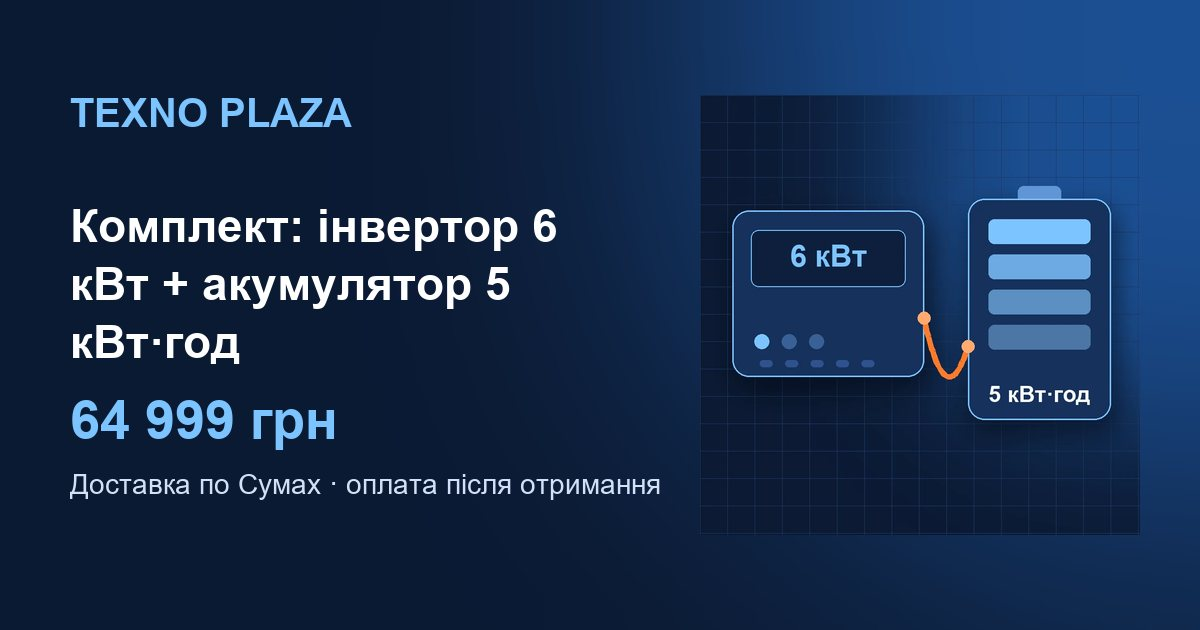
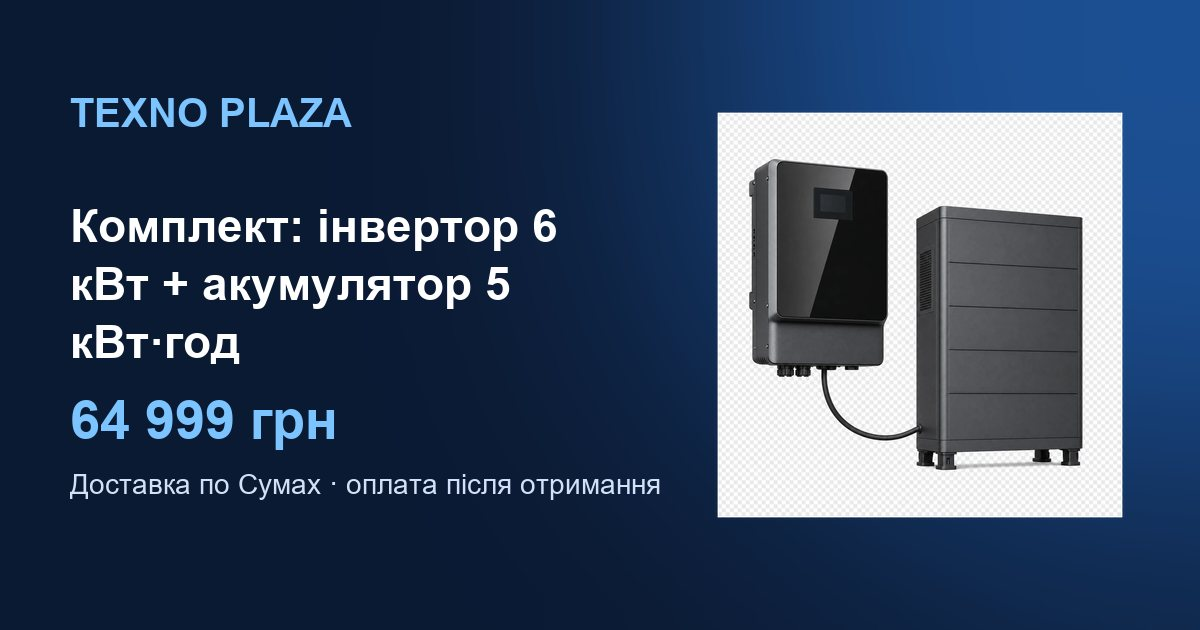
Справжні фотографії комплектів і обкладинка категорії
Власник підтвердив утретє й дав рахунок із кредитами, тож фотографії
згенеровані. Гарантія, яку я лишив у будь-якому разі: у промптах
прямо заборонені логотипи, будь-які написи, цифри на корпусі й
увімкнений дисплей — щоб на знімку не з'явилась марка, якої магазин
не продає.

Обкладинка категорії — у тій самій постановці, що й решта тринадцяти:
темно-синє тло, холодне контрове світло, матовий графіт, відображення
на глянці. Стоїть тепер поруч із ними й не випадає.

Три знімки товарів приїхали вже вирізаними — модель робить прозорий
фон із самого формулювання промпта, параметр background вона мовчки
відкидає. Тому їх лишалось тільки обрізати й відцентрувати тим самим
normalize(), через який проходить кожне фото на сайті: комплект стоїть
у сітці в тому ж масштабі, що й холодильник.

Картки для пересилки перемальовані — вони вбудовують photos[0].

Дорогою, для наступного разу: CLI на цьому плані так само віддає
only_mcp_usage_on_trial_is_available, генерація йде через MCP-ендпоінт
із токеном CLI. І MCP не успадковує вибір workspace від CLI — поки
workspace не вибрано і в MCP, списання йде правильно, а show_generations
показує чужий контекст, і здається, що задачі зникли.

Changed region(s): [[0.5858, 0.1508, 0.9558, 0.8746]]

diff --git a/scripts/install_kit_shots.py b/scripts/install_kit_shots.py
@@ -1,0 +1,61 @@
+#!/usr/bin/env python
+# -*- coding: utf-8 -*-
+"""Put generated bundle photographs into the catalogue.
+
+The shots arrive 2048x2048 with a transparent background already — the model
+cuts them out itself when the prompt asks for it — so there is nothing to
+remove, only to trim and centre. normalize() is the same one every other
+product photo goes through, so a bundle sits in the grid at the same scale as
+a fridge.
+
+Run: python scripts/install_kit_shots.py <folder-with-pngs>
+  expects kit-2-5.png, kit-8.png, kit-5.png
+"""
+import io
+import json
+import os
+import sys
+
+from PIL import Image
+
+sys.path.insert(0, os.path.dirname(os.path.abspath(__file__)))
+from photolib import normalize                                   # noqa: E402
+
+sys.stdout.reconfigure(encoding='utf-8')
+ROOT = os.path.dirname(os.path.dirname(os.path.abspath(__file__)))
+OUT = os.path.join(ROOT, 'assets', 'img', 'products')
+FULL, THUMB = (900, 900), (400, 400)
+
+# which generated file belongs to which bundle
+PLAN = {
+    'komplekt-invertor-4-kvt-akumulyator-2-5-kvt-god': 'kit-2-5.png',
+    'komplekt-invertor-4-kvt-akumulyator-8-kvt-god': 'kit-8.png',
+    'komplekt-invertor-6-kvt-akumulyator-5-kvt-god': 'kit-5.png',
+}
+
+
+def main(src_dir):
+    prods = json.load(io.open(os.path.join(ROOT, 'data', 'products.json'), encoding='utf-8'))
+    slugs = {p['slug'] for p in prods}
+    done = 0
+    for slug, fname in PLAN.items():
+        if slug not in slugs:
+            print('no such product:', slug); continue
+        src = os.path.join(src_dir, fname)
+        if not os.path.exists(src):
+            print('missing, skipped:', fname); continue
+        im = Image.open(src).convert('RGBA')
+        bb = im.getbbox()                      # trim the transparent margin
+        if bb:
+            im = im.crop(bb)
+        out = os.path.join(OUT, slug)
+        os.makedirs(out, exist_ok=True)
+        normalize(im, FULL).save(os.path.join(out, '1.webp'), 'WEBP', quality=90, method=6)
+        normalize(im, THUMB).save(os.path.join(out, 'thumb.webp'), 'WEBP', quality=90, method=6)
+        print('%-52s <- %s  (%dx%d)' % (slug, fname, im.width, im.height))
+        done += 1
+    print('installed:', done)
+
+
+if __name__ == '__main__':
+    main(sys.argv[1] if len(sys.argv) > 1 else '.')
